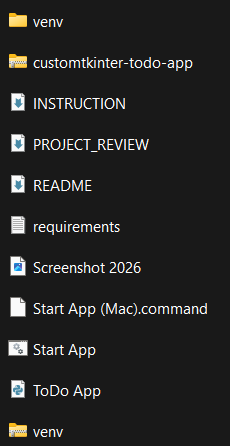
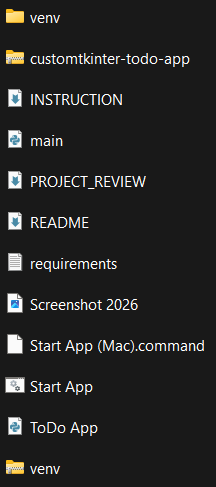
Add files via upload

diff --git a/main.py b/main.py
@@ -1,0 +1,7 @@
+from fastapi import FastAPI
+
+app = FastAPI()
+
+@app.get("/")
+def root():
+    return {"message": "Hello World"}
